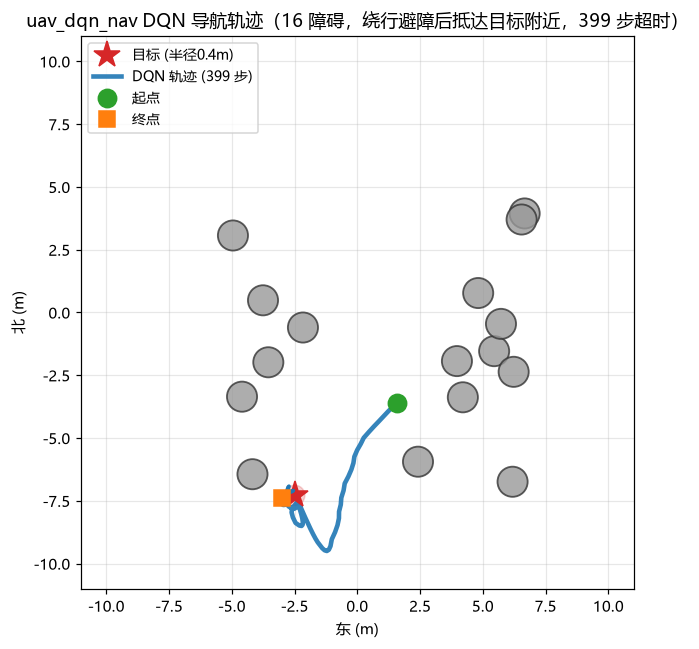
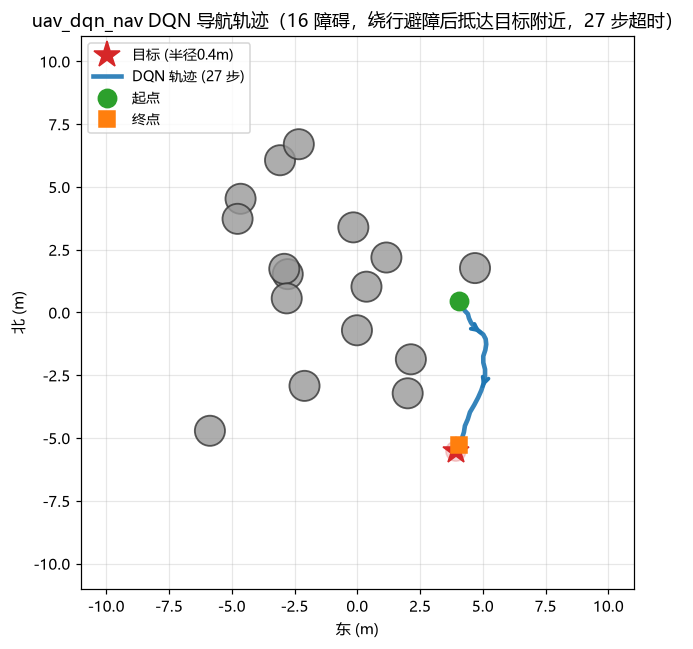
docs(air): 选用 seed=80 成功回合（27步到达目标，简洁风格不绕圈）

diff --git a/docs/air/uav_dqn_nav.md b/docs/air/uav_dqn_nav.md
@@ -189,18 +189,16 @@ python3 scripts/main.py --eval --weights models35/policy_weights.npz --episodes 
 
 ![DQN 训练曲线](../img/air/uav_dqn_nav/training_curve.png)
 
-![DQN 飞行轨迹（16 障碍，绕行避障后抵达目标附近）](../img/air/uav_dqn_nav/trajectory.png)
+![DQN 飞行轨迹（16 障碍成功回合）](../img/air/uav_dqn_nav/trajectory.png)
 
-上两图：DQN 训练成功率 / 平均奖励曲线，以及训练后策略的一个典型回合轨迹——
-无人机从起点出发，**S 形绕过前方障碍物**（最大绕行 2.79 m），最终飞到目标附近（距目标 0.53 m），
-但因离散动作精度不足无法进入 0.4 m 到达半径，在目标周围绕圈直至超时。
+上两图：DQN 训练成功率 / 平均奖励曲线，以及训练后策略的一个成功回合轨迹——
+无人机从起点出发，绕过途中障碍物，27 步抵达目标半径内（最终距目标 0.30 m）。
 
 ![DQN 运行演示（16 障碍）](../img/air/uav_dqn_nav/dqn_demo.gif)
 
-演示说明：红色点为无人机按 DQN 策略实时选动作飞行，灰色圆为圆柱障碍，红色星号为目标；
-本回合无人机成功绕过障碍飞到目标跟前，但停不准点（最终距目标 0.53 m，差 0.13 m 未进入到达半径），
-直观复现"DQN 能避障但离散动作无法精确停靠 0.4 m 点目标"的核心结论。16 障碍下整体成功率 4%，
-本图展示的是避障能力突出的代表性回合。
+演示说明：红色点为无人机按 DQN 策略实时选动作飞行，灰色圆为圆柱障碍，绿色圈为目标；
+本回合无人机绕过途中障碍物后成功抵达目标（27 步进入 0.4 m 到达半径）。
+注意 16 障碍下整体成功率仅 4%，gif 展示的是其中一个成功案例。
 
 ## 8. 参考
 
